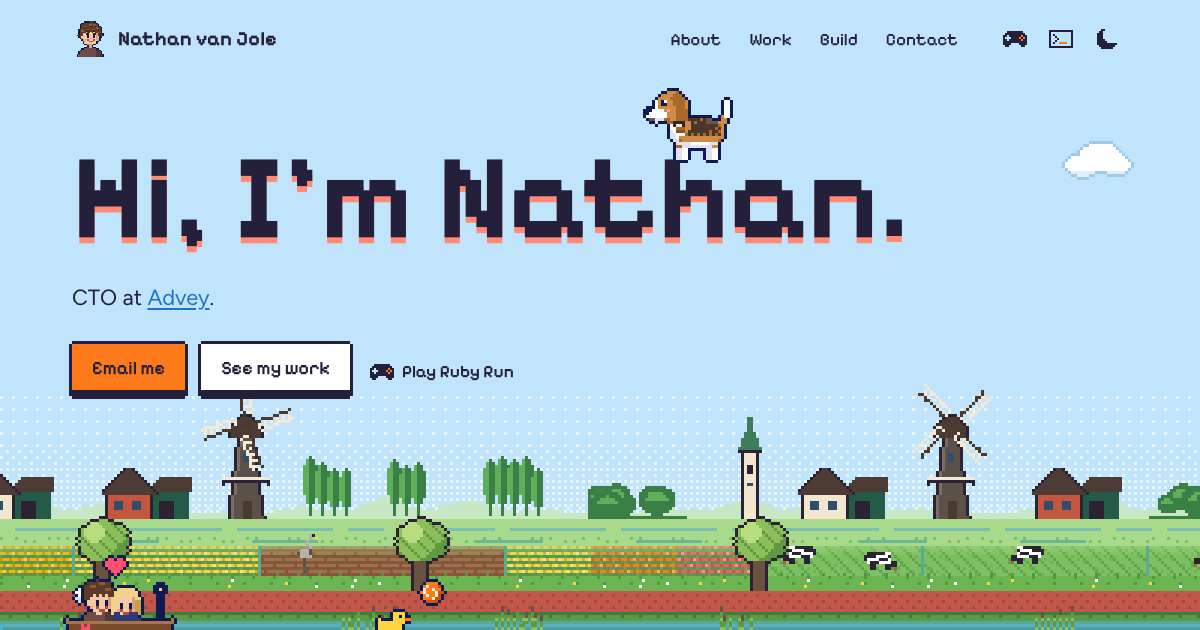
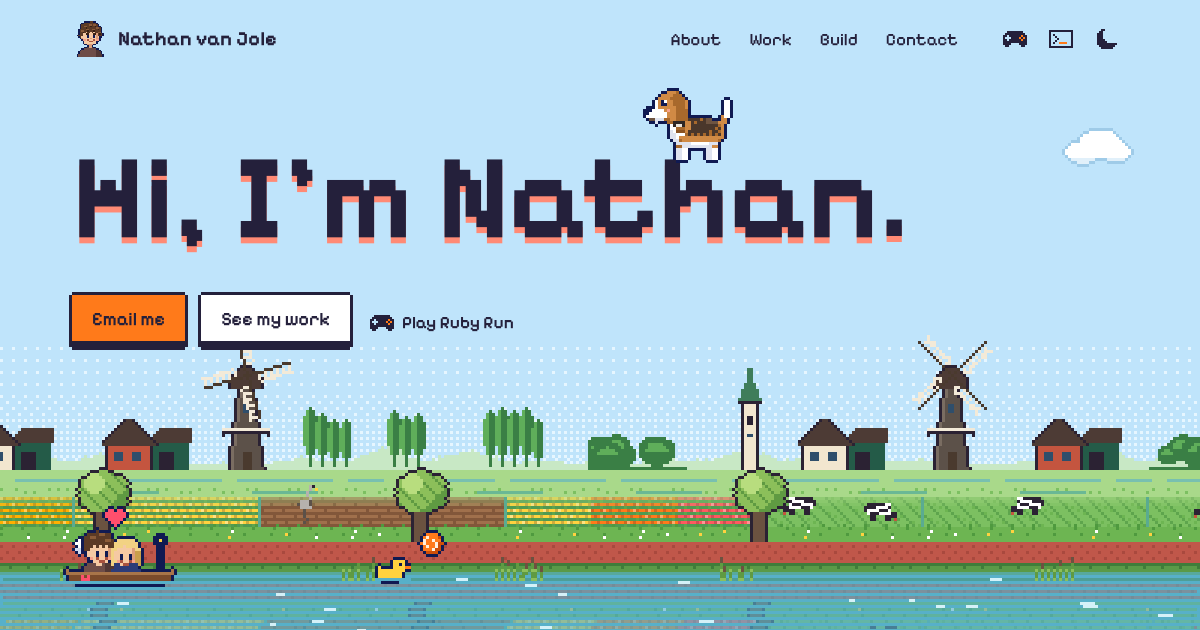
Hero: just the greeting and the buttons
Removes the line under "Hi, I'm Nathan." and gives the headline a little
more room above the buttons. The link preview follows.

diff --git a/src/content/home.ts b/src/content/home.ts
@@ -9,7 +9,6 @@ import type { Ability, AskQuestion, Link, Rich, WorkEntry } from './types';
 // ------------------------------------------------------------------ hero
 export const hero = {
   title: "Hi, I'm Nathan.",
-  lede: 'CTO at [Advey](https://advey.ai).' as Rich,
   actions: [
     { label: 'Email me', href: 'mailto:hi@nathanvj.com' },
     { label: 'See my work', href: '#work' },
